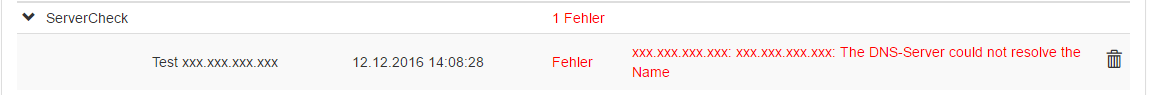
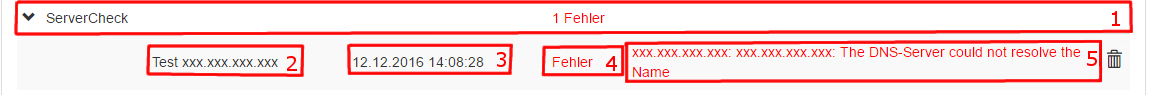
Arbeit an Überwachungsseite

Changed region(s): [[0.1241, 0.4211, 0.9621, 0.8842], [0.0, 0.0, 0.9931, 0.3789], [0.931, 0.5263, 0.9621, 0.7368]]

diff --git a/_pages/webclient/de/ueberwachung.md b/_pages/webclient/de/ueberwachung.md
@@ -26,7 +26,7 @@ __Aufbau einer Transaktion__
 
 ![X]({{ site.baseUrl }}/assets/content-images/webclient/de/transaction.png "Aufbau Transaktion")  
 
-### 1. Schnitstelle  
+### 1. Schnittstelle  
   Die Schnittstelle stellt die übergeordnete logische Gruppierung dar. Auf gleicher Ebene wird Angezeigt, wie viele Fehlerhafte Transaktionen vorhanden sind
 
 ### 2. Endpunkt
